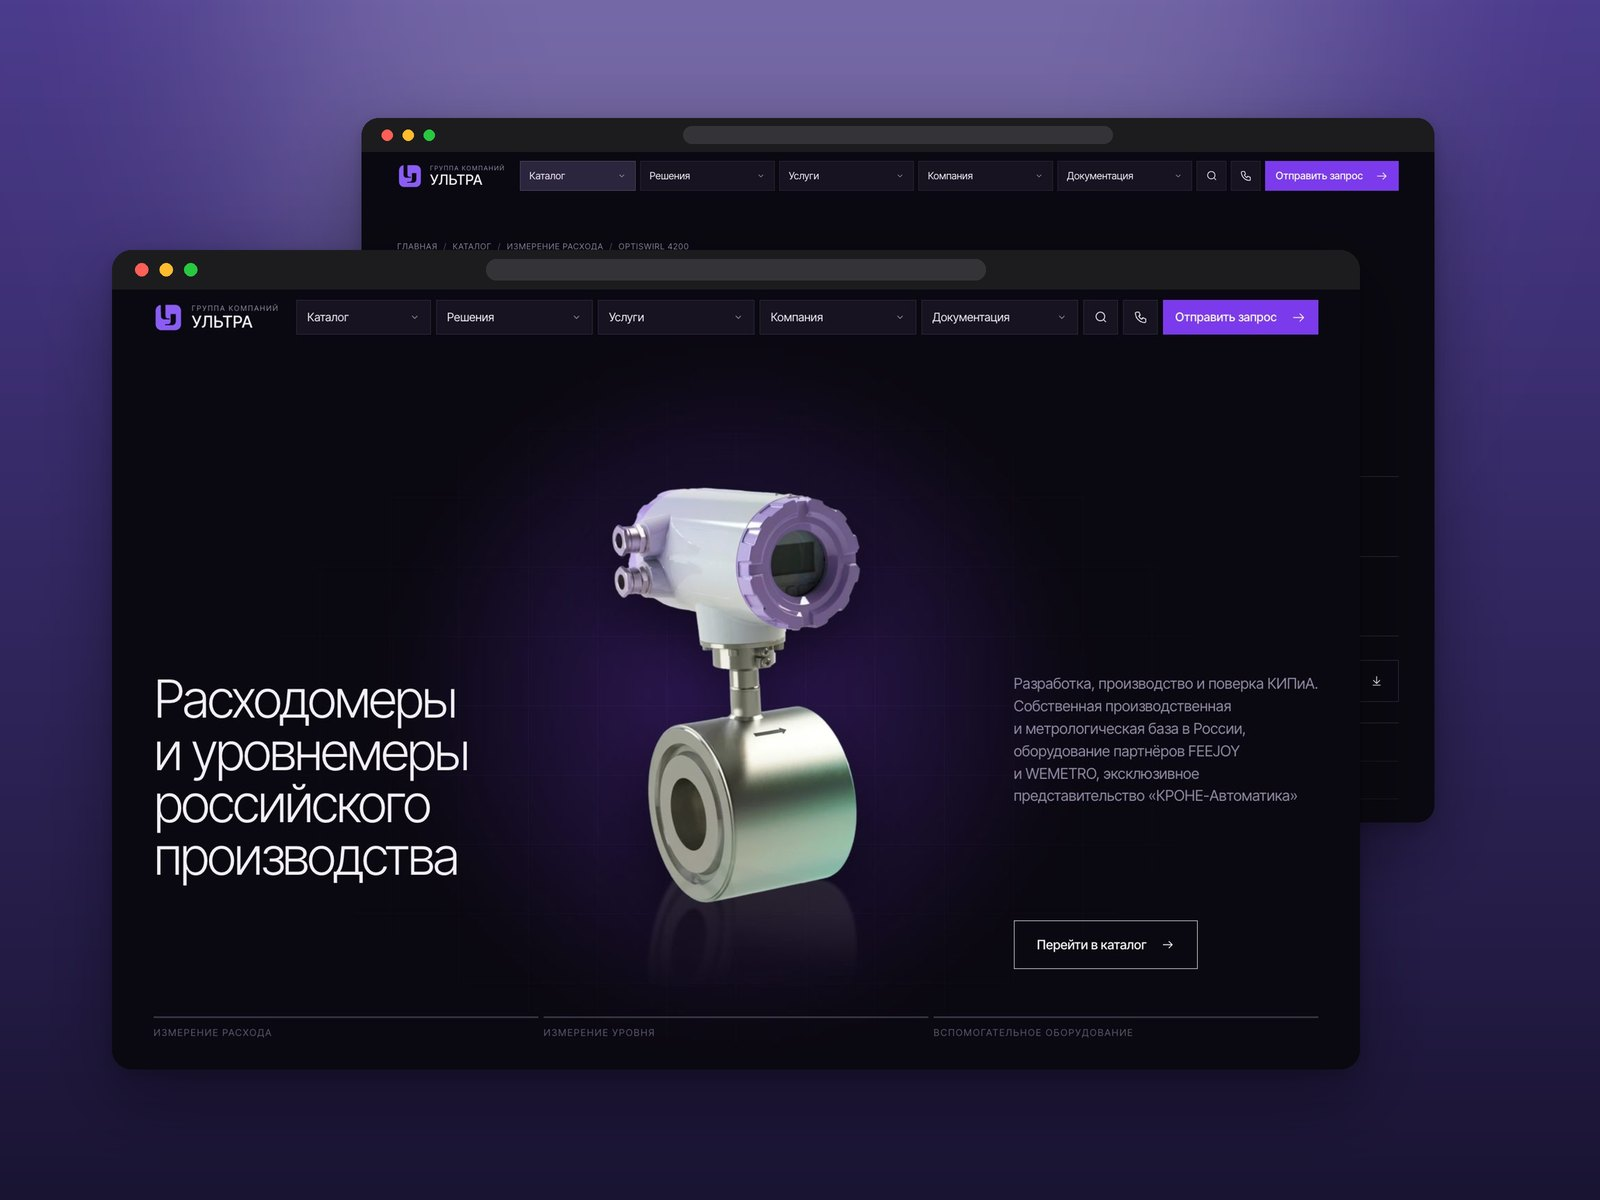
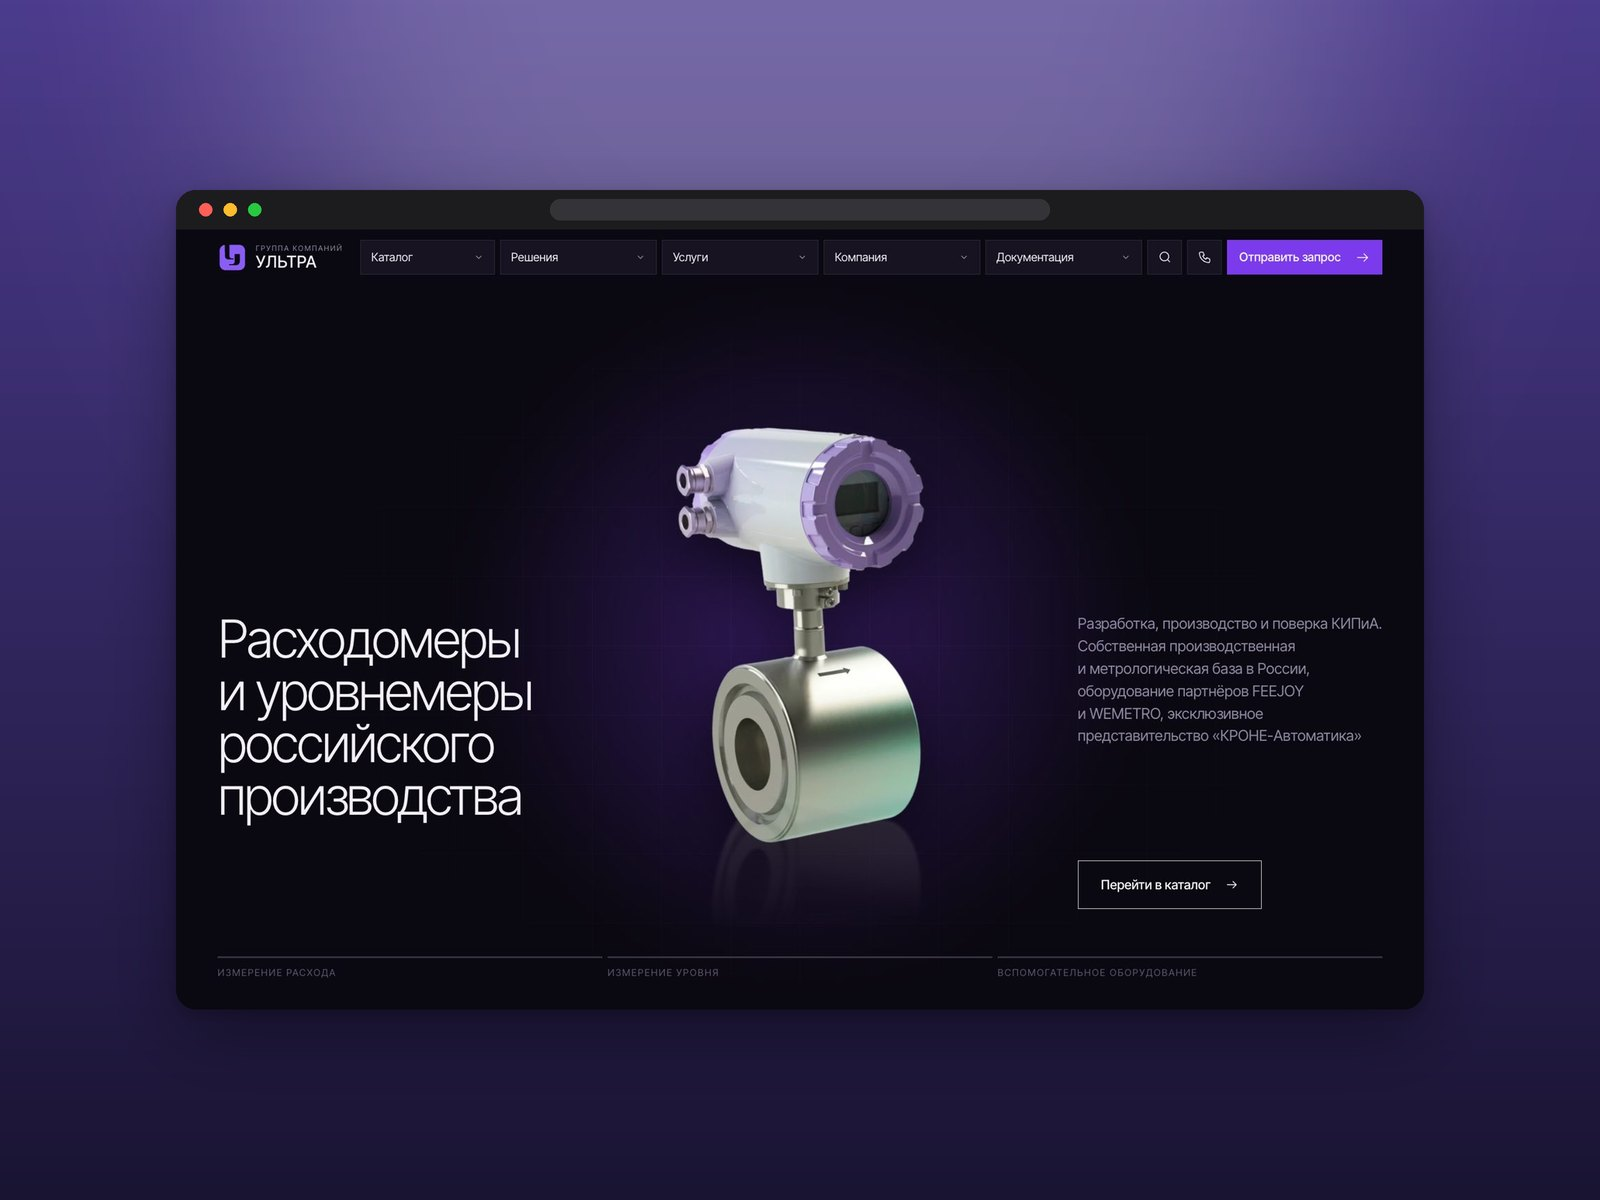
Ultra cover: single centered page

diff --git a/index.html b/index.html
@@ -253,7 +253,7 @@ const P=[
   facts:[['Клиент','Авиакомпания «Ямал»'],['Роль','UX/UI-дизайн'],['Объём','Сайт, ЛК, заказ'],['Тип','Веб-сервис']],
   text:['Сайт авиакомпании с личным кабинетом пассажира и сценарием оформления заказа.'],
   gal:[{src:'img/yamal.jpg'}]},
- {id:'ultra',sub:'Концепт сайта, производитель КИПиА',d:'Концепция сайта российского производителя расходомеров и уровнемеров: главная со сценой «внутрь прибора», каталог с умным фильтром и карточка прибора с запросом ТКП.',note:'',f:'concept',t:'ГК «Ультра»',cat:'Концепт · Сайт производителя',c:'#2a1f4d',cover:'img/cover-ultra.jpg',coverW:'img/cover-ultra-w.jpg',label:'Концепт',
+ {id:'ultra',sub:'Концепт сайта, производитель КИПиА',d:'Концепция сайта российского производителя расходомеров и уровнемеров: главная со сценой «внутрь прибора», каталог с умным фильтром и карточка прибора с запросом ТКП.',note:'',f:'concept',t:'ГК «Ультра»',cat:'Концепт · Сайт производителя',c:'#2a1f4d',cover:'img/cover-ultra.jpg?v=2',coverW:'img/cover-ultra-w.jpg',label:'Концепт',
   tags:['Концепт','Каталог','B2B'],
   s:'Концепция сайта российского производителя расходомеров и уровнемеров.',
   facts:[['Клиент','ГК «Ультра»'],['Роль','Концепция, UX/UI'],['Страницы','Главная, каталог, карточка'],['Год','2026']],
